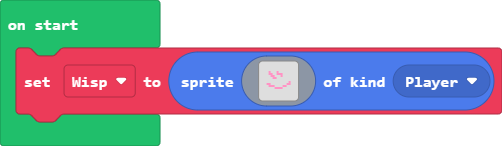
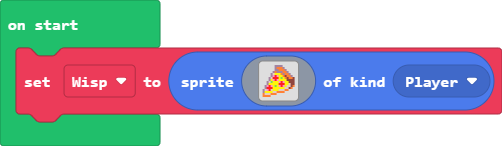
Changed to pizza.

Changed region(s): [[0.508, 0.4384, 0.5976, 0.6849]]

diff --git a/main.ts b/main.ts
@@ -1,18 +1,18 @@
 let Wisp = sprites.create(img`
-    . . . . . . . . . . . . . . . . 
-    . . . . . . . . . . . . . . . . 
-    . . . . . . . . . . . . . . . . 
-    . . . 3 . . . 3 . . . . . . . . 
-    . . . 3 3 . . 3 3 3 . . . . . . 
-    . . . . 3 3 . . . 3 . . . . . . 
-    . . . . . 3 3 . . . . . . . . . 
-    . . . . . . . . . . . . . . . . 
-    . . . . . . . . . . . . . 3 . . 
-    . . 3 3 . . . . . . . . 3 3 . . 
-    . . . 3 3 3 . . . . 3 3 . . . . 
-    . . . . . . 3 3 3 3 . . . . . . 
-    . . . . . . . . . . . . . . . . 
-    . . . . . . . . . . . . . . . . 
-    . . . . . . . . . . . . . . . . 
-    . . . . . . . . . . . . . . . . 
+    . . . . . . b b b b . . . . . . 
+    . . . . . . b 4 4 4 b . . . . . 
+    . . . . . . b b 4 4 4 b . . . . 
+    . . . . . b 4 b b b 4 4 b . . . 
+    . . . . b d 5 5 5 4 b 4 4 b . . 
+    . . . . b 3 2 3 5 5 4 e 4 4 b . 
+    . . . b d 2 2 2 5 7 5 4 e 4 4 e 
+    . . . b 5 3 2 3 5 5 5 5 e e e e 
+    . . b d 7 5 5 5 3 2 3 5 5 e e e 
+    . . b 5 5 5 5 5 2 2 2 5 5 d e e 
+    . b 3 2 3 5 7 5 3 2 3 5 d d e 4 
+    . b 2 2 2 5 5 5 5 5 5 d d e 4 . 
+    b d 3 2 d 5 5 5 d d d 4 4 . . . 
+    b 5 5 5 5 d d 4 4 4 4 . . . . . 
+    4 d d d 4 4 4 . . . . . . . . . 
+    4 4 4 4 . . . . . . . . . . . . 
     `, SpriteKind.Player)
